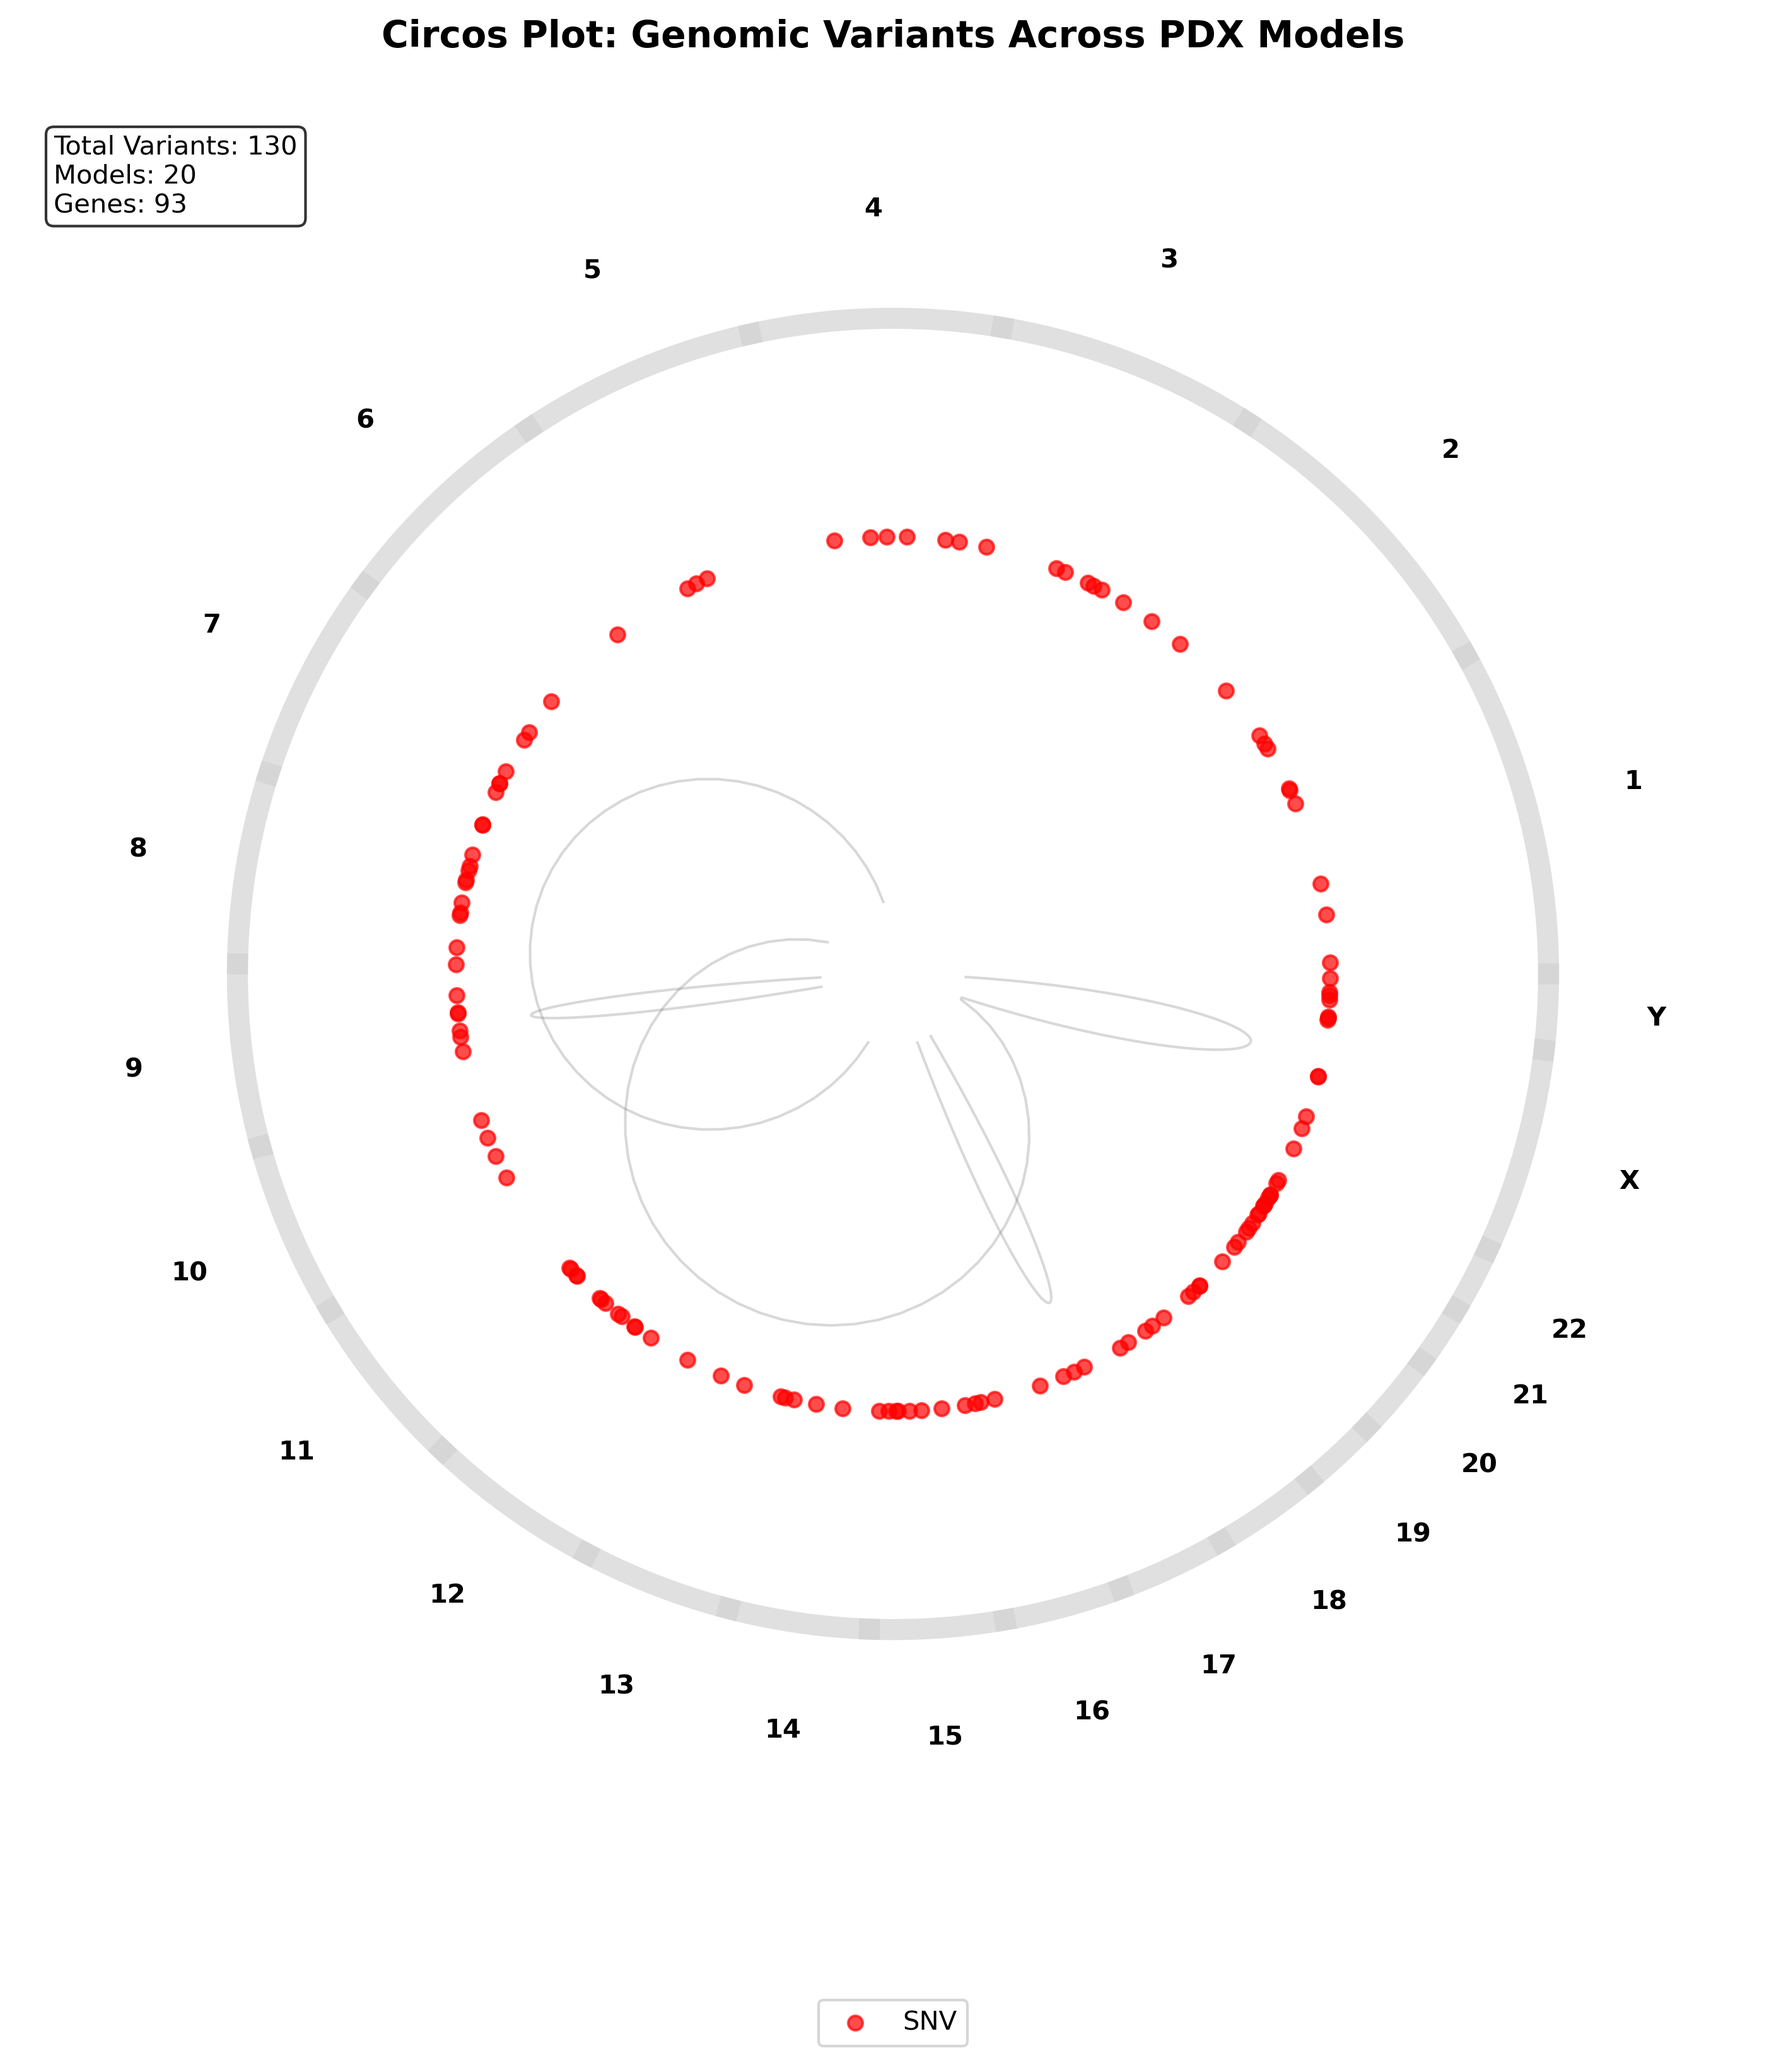
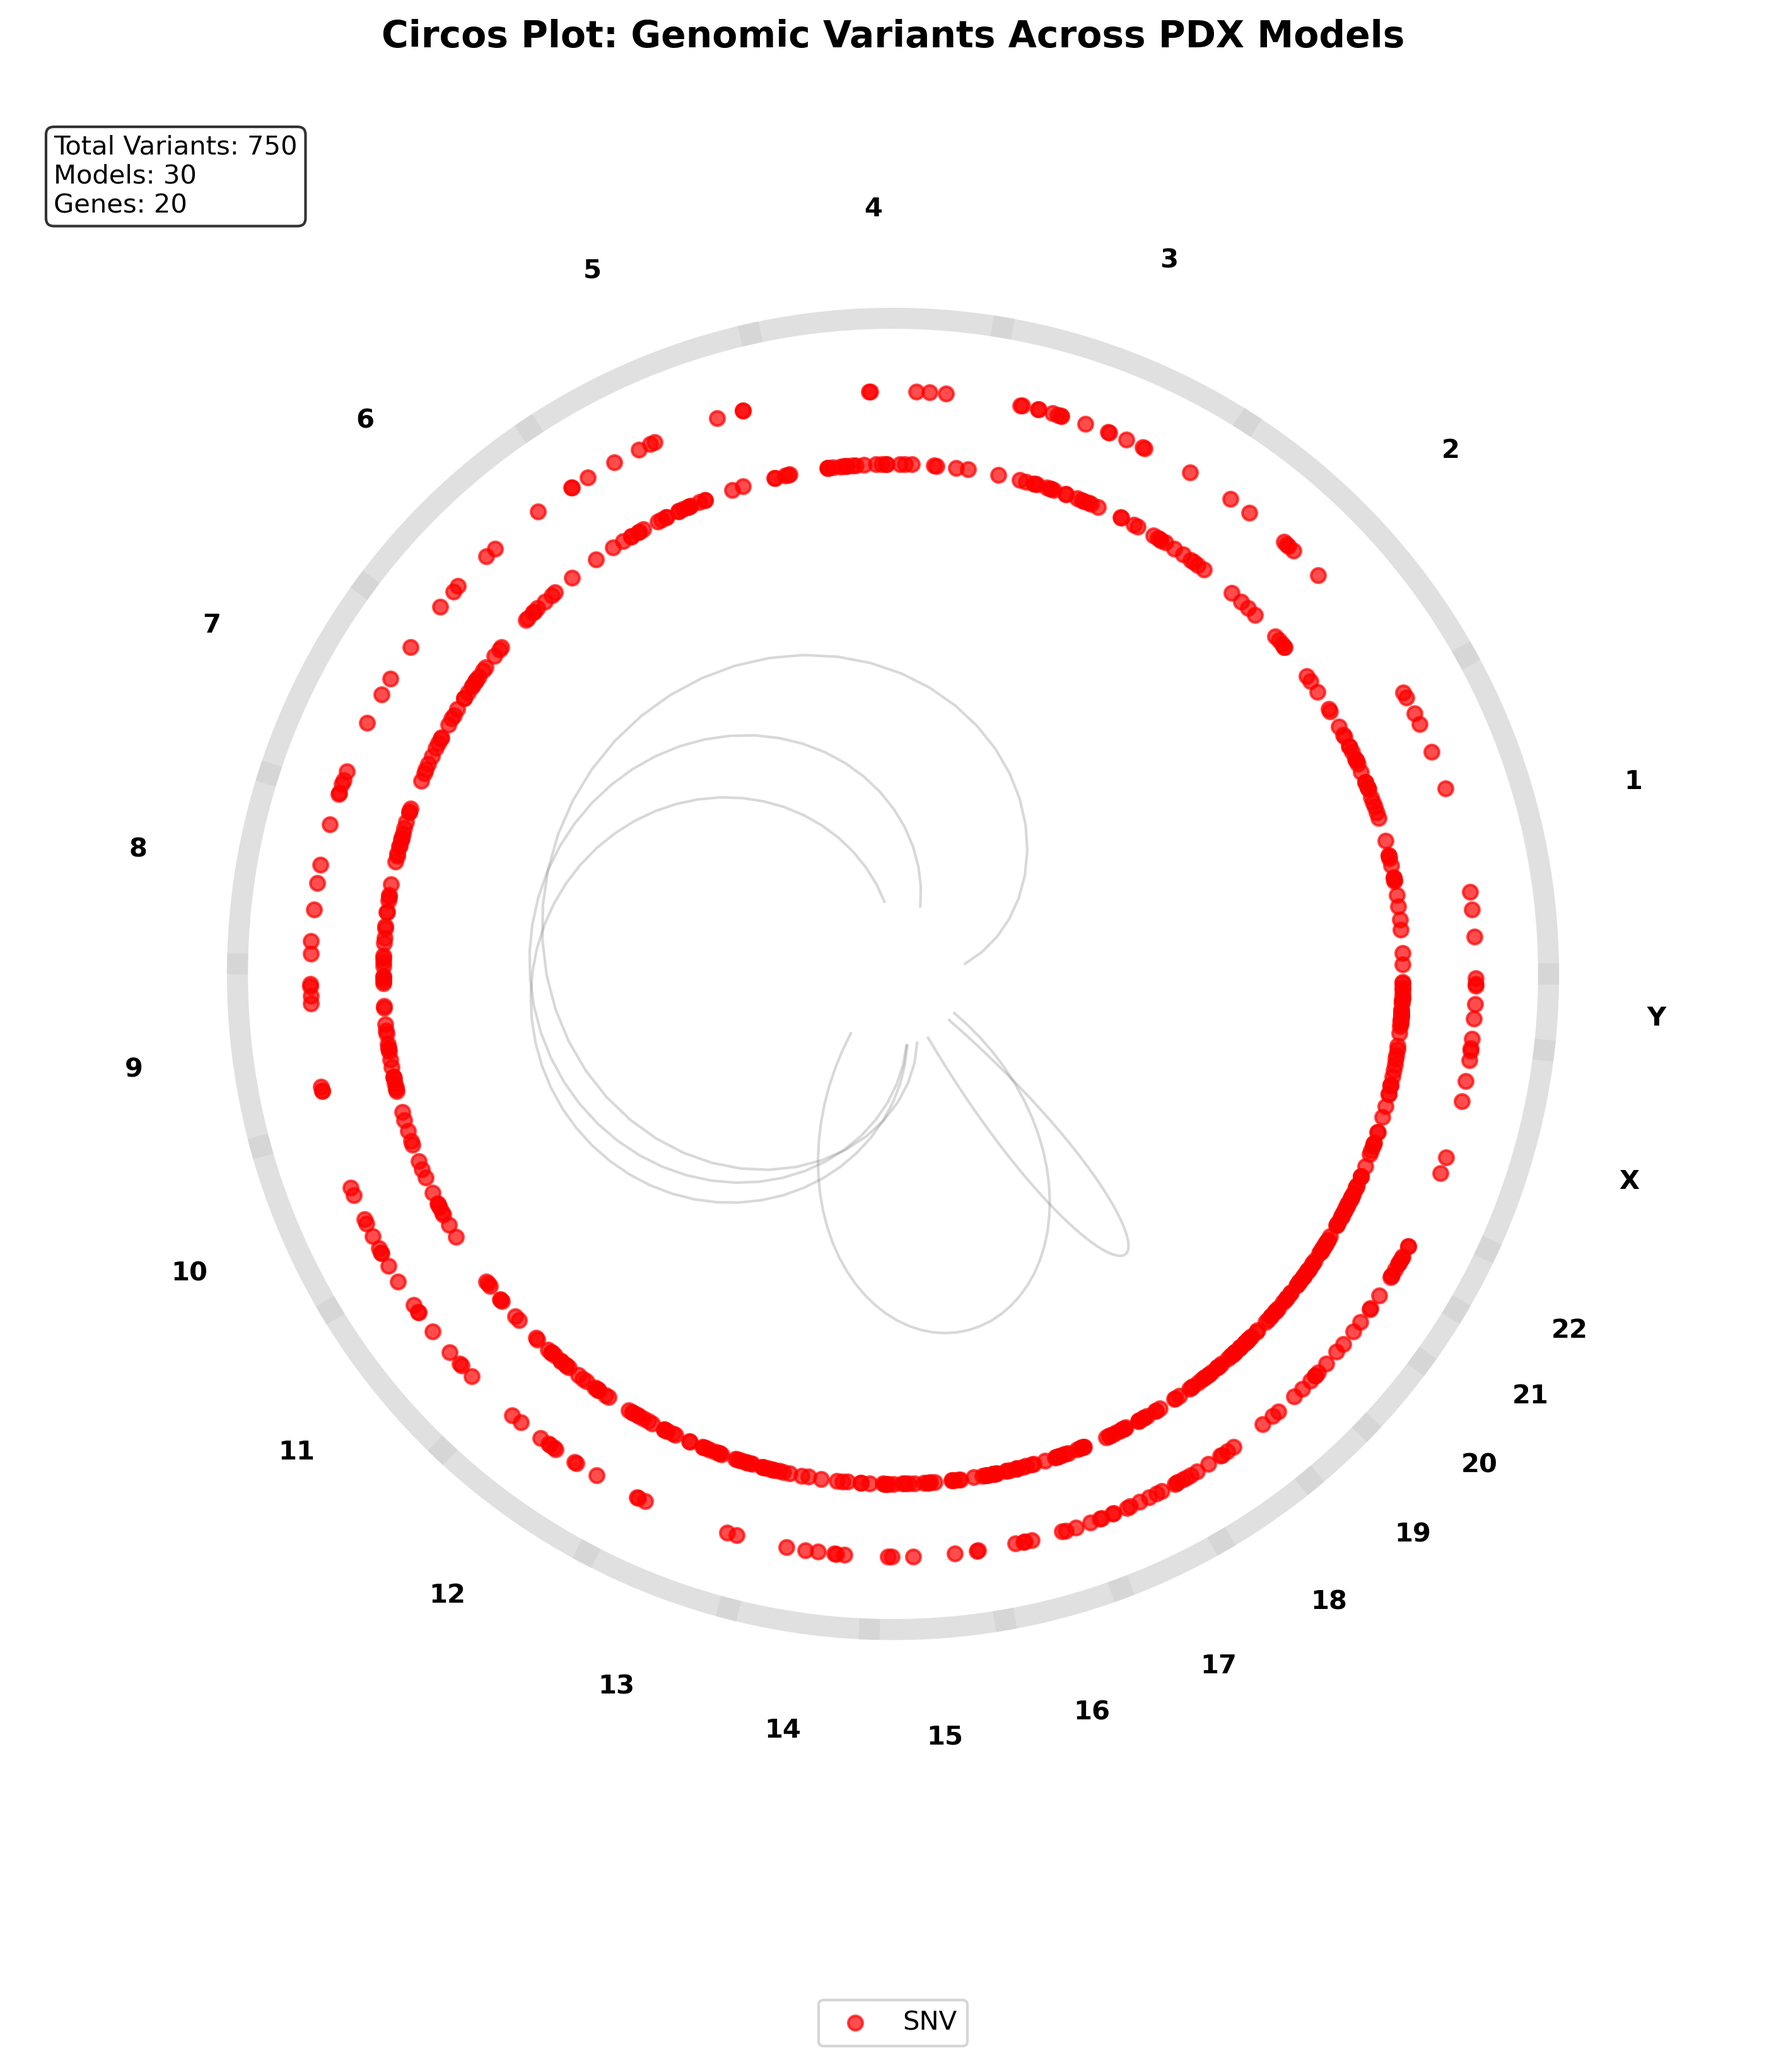
updated plots generation

diff --git a/src/python/advanced_workflows.py b/src/python/advanced_workflows.py
@@ -214,7 +214,7 @@ class PDXWorkflows:
                        dpi=300, bbox_inches='tight')
             print(f"✓ Growth curve analysis saved to {self.results_dir}/growth_curves_comprehensive.png")
         
-        plt.show()
+        plt.close()
         
         # Return summary statistics
         return {
@@ -321,7 +321,7 @@ class PDXWorkflows:
                        dpi=300, bbox_inches='tight')
             print(f"✓ Waterfall plot saved to {self.results_dir}/waterfall_plot.png")
         
-        plt.show()
+        plt.close()
         
         # Print summary
         print("\nResponse Summary:")
@@ -462,7 +462,7 @@ class PDXWorkflows:
                        dpi=300, bbox_inches='tight')
             print(f"✓ Survival analysis saved to {self.results_dir}/survival_analysis.png")
         
-        plt.show()
+        plt.close()
         
         return survival_df, summary_df
     
@@ -642,7 +642,7 @@ class PDXWorkflows:
                        dpi=300, bbox_inches='tight')
             print(f"✓ Molecular heatmaps saved to {self.results_dir}/molecular_heatmaps.png")
         
-        plt.show()
+        plt.close()
         
         # Print top correlations
         print("\nTop Gene-Response Correlations:")
@@ -841,7 +841,7 @@ class PDXWorkflows:
                        dpi=300, bbox_inches='tight')
             print(f"✓ Circos plot saved to {self.results_dir}/circos_plot.png")
         
-        plt.show()
+        plt.close()
         
         return variant_data_extended
     
@@ -988,18 +988,18 @@ class PDXWorkflows:
         ax.axvline(fc_threshold, color='black', linestyle='--', alpha=0.5)
         ax.axvline(-fc_threshold, color='black', linestyle='--', alpha=0.5)
         
-        # Label most significant genes (by FDR)
-        top_genes = volcano_data.nlargest(10, 'MinusLog10QValue')
-        for _, gene_data in top_genes.iterrows():
-            if gene_data['Significant']:
-                ax.annotate(gene_data['Gene'], 
-                           xy=(gene_data['Log2FoldChange'], gene_data['MinusLog10QValue']),
-                           xytext=(5, 5), textcoords='offset points',
-                           fontsize=10, alpha=0.8)
+        # Remove gene labels for cleaner appearance
+        # top_genes = volcano_data.nlargest(10, 'MinusLog10QValue')
+        # for _, gene_data in top_genes.iterrows():
+        #     if gene_data['Significant']:
+        #         ax.annotate(gene_data['Gene'], 
+        #                    xy=(gene_data['Log2FoldChange'], gene_data['MinusLog10QValue']),
+        #                    xytext=(5, 5), textcoords='offset points',
+        #                    fontsize=10, alpha=0.8)
         
         # Formatting - Optimized for mobile viewing
         ax.set_xlabel('Log₂ Fold Change (Treatment/Control)', fontsize=16, fontweight='bold')
-        ax.set_ylabel('-Log₁₀ Q-Value (FDR-corrected)', fontsize=16, fontweight='bold')
+        ax.set_ylabel('-Log₁₀ P-Value (FDR-corrected)', fontsize=16, fontweight='bold')
         # Remove title for cleaner mobile appearance
         # ax.set_title('Volcano Plot: Differential Gene Expression\nTreatment vs Control (FDR-corrected)', 
         #              fontsize=14, fontweight='bold', pad=20)
@@ -1038,7 +1038,8 @@ class PDXWorkflows:
                        dpi=300, bbox_inches='tight')
             print(f"✓ Volcano plot saved to {self.results_dir}/volcano_plot.png")
         
-        plt.show()
+        # Close plot to prevent blocking
+        plt.close()
         
         # Print summary
         print(f"\nDifferential Expression Summary (FDR-corrected):")

diff --git a/README.md b/README.md
@@ -37,7 +37,7 @@ conda activate pdx_analysis
 
 ### 📊 **Enhanced Dataset**
 - **Doubled Sample Size**: Now 30 models (15+15) for statistical power
-- **Expanded Gene Panel**: 1000 genes with realistic expression patterns
+- **Expanded Gene Panel**: 20,000 genes with realistic expression patterns
 - **Stronger Differential Expression**: Enhanced treatment effects for DE detection
 - **Improved Realism**: Cancer-type specific biology and technical variation
 
@@ -109,8 +109,8 @@ By completing this tutorial, you will learn to:
 ## 🆕 Key Features & Improvements
 
 ### Enhanced Statistical Power
-- **20 PDX Models**: 10 control + 10 treatment for robust comparisons
-- **1000 Genes**: Increased from 500 for better differential expression detection
+- **30 PDX Models**: 15 control + 15 treatment for robust comparisons
+- **20,000 Genes**: Expanded from 500 for comprehensive transcriptomic analysis
 - **Stronger Treatment Effects**: Enhanced signal-to-noise ratio in mock data
 - **Realistic Biology**: Cancer-type specific growth patterns and batch effects
 
@@ -296,6 +296,7 @@ w = PDXWorkflows('data/', 'results/')
 w.expression_data = expression_data
 w.volcano_plot()
 "
+
 ### Step 6: Interactive Analysis
 ```bash
 # Launch Jupyter for interactive analysis
@@ -311,16 +312,6 @@ jupyter notebook notebooks/03_integrated_analysis.ipynb
 | **Survival Analysis** | Extended progression-free survival | Treatment efficacy demonstration |
 | **Molecular Heatmaps** | Expression-response correlations | Biomarker identification |
 
-# You should see (pdx_env) prefix in your terminal prompt
-# If you don't see the prefix, activation failed - check troubleshooting section
-```
-
-**⚠ Critical**: The virtual environment MUST be activated before running any notebooks or Python scripts. Without activation, you'll get "bad interpreter" errors.
-
-### Alternative Manual Setup
-```bash
-# If enhanced setup fails, use manual setup
-python3 -m venv pdx_env
 ## 📁 Repository Structure
 
 ```
@@ -379,7 +370,7 @@ This tutorial generates the following publication-ready visualizations:
 - **Statistical rigor**: Q-values (FDR) vs raw p-values comparison
 - **Effect size visualization**: Log2 fold change thresholds for biological significance
 - **Publication standards**: Follows genomics best practices for significance testing
-- **Gene annotation**: Top FDR-significant genes labeled for follow-up
+- **Clean mobile layout**: Optimized for mobile viewing with minimal labels
 
 ### Circos Plots
 - **Genome-wide variants**: Chromosomal distribution visualization
